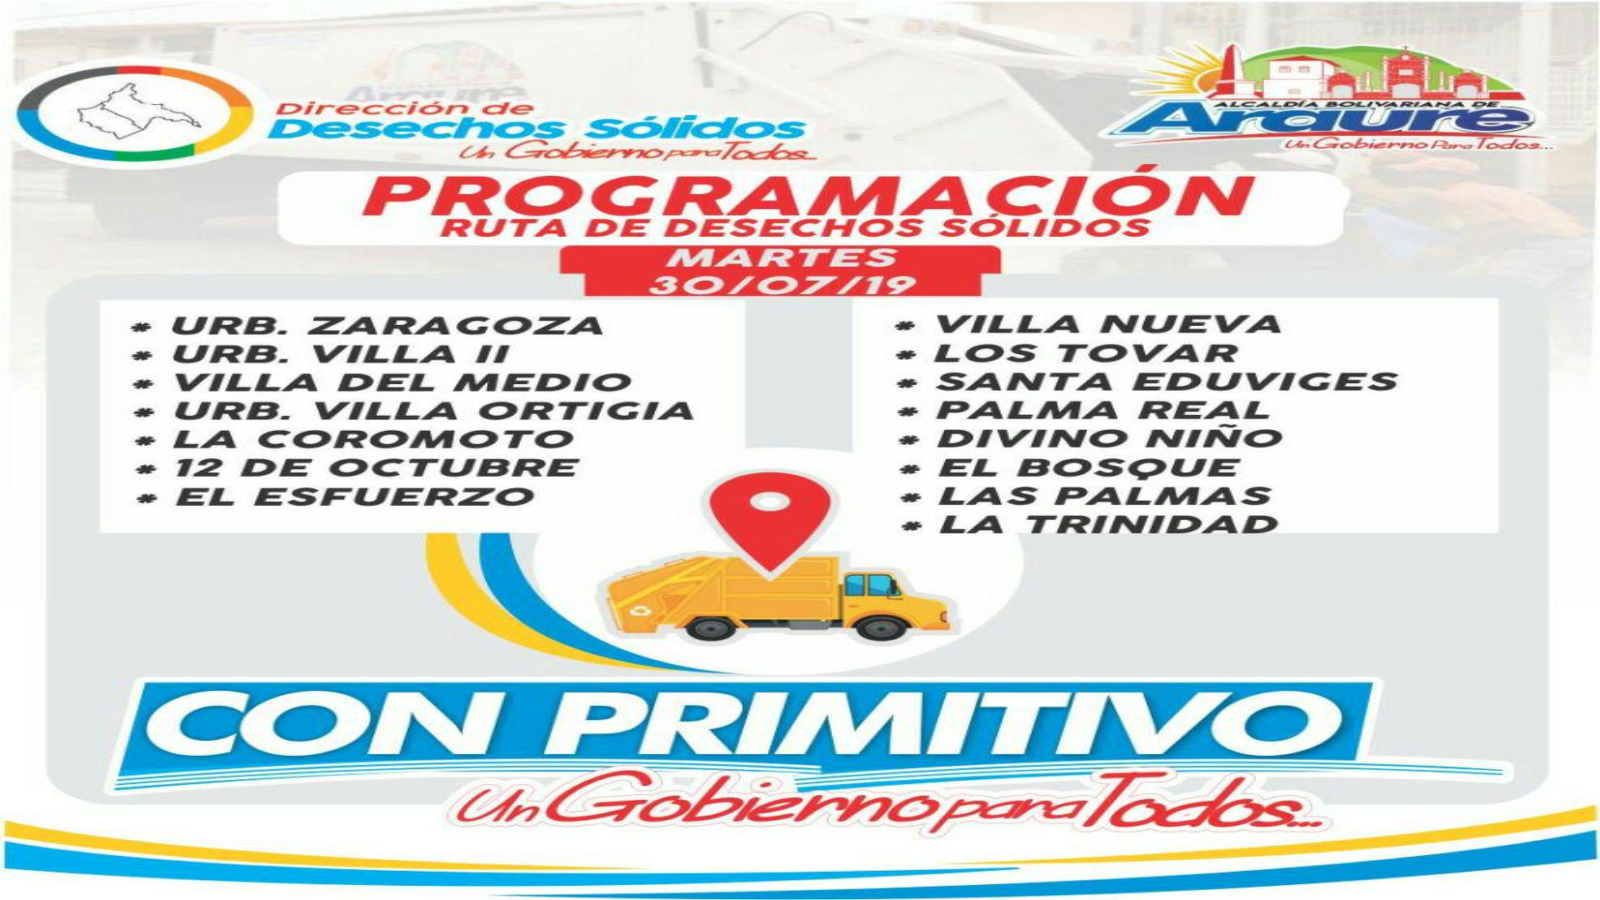
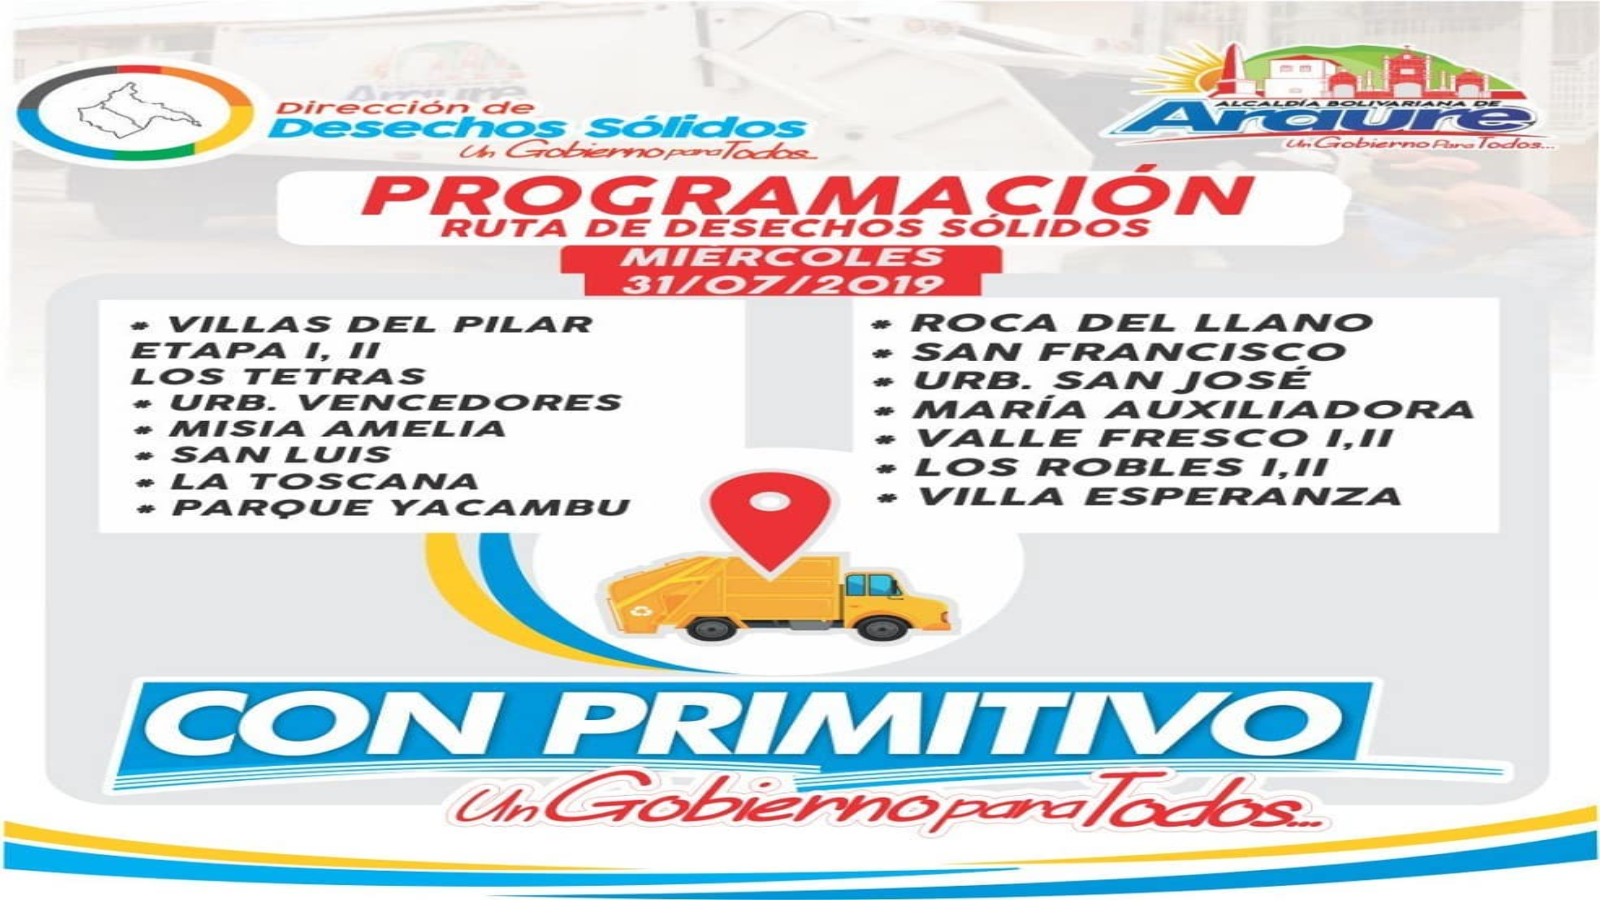
aviso del aseo

diff --git a/html/index.html b/html/index.html
@@ -252,15 +252,15 @@
                                         <h2>Lorem ipsum dolor sit.</h2>-->
                                  </div>
                                 </li>
-                       <!--   <li>           Slide 4
-                               <img src="./img/Avisos_importantes/2019/radio.png">
-                                     <div class="meta">
+                     <li>           <!--     Slide 4-->
+                               <img src="./img/Avisos_importantes/2019/av.png">
+                                     <!--<div class="meta">
                            <h1>Lorem ipsum dolor sit amet, consectetur.</h1>
                                         <h2>Lorem ipsum dolor sit.</h2>
                                   </div>
                                 </li>-->
                               <li>  <!--Slide 5-->
-                                 <img src="./img/Avisos_importantes/2019/clap2.png">
+                                 <img src="./img/Avisos_importantes/2019/31.png">
                                     <div class="meta">
                                     </div>
                                 </li>
